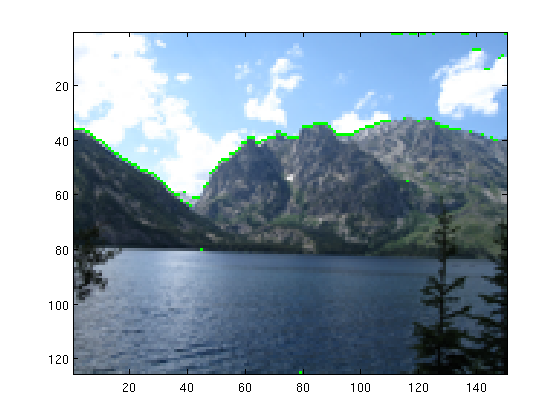
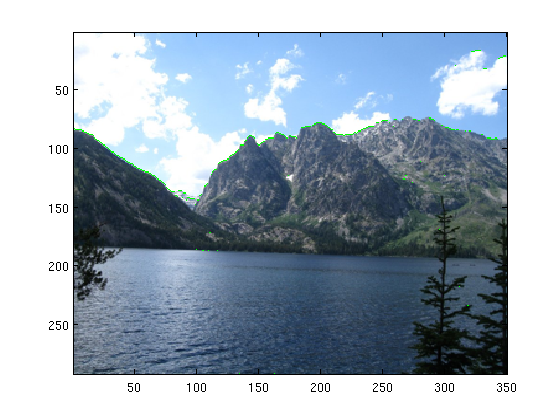
more pics for paper

diff --git a/csci5722_cv/project/paper/computer_vision_paper.tex b/csci5722_cv/project/paper/computer_vision_paper.tex
@@ -50,10 +50,11 @@ For every point in the DEM tile(s), I project this point into the image space.  
 
 There are a number of issues that arise with this approach.  The first one noticed is that all of the points in the DEM are just that: points.  The skyline will result in a jagged edge that is not particularly useful for this system.  I solved this approach by asserting that each point would represent a window halfway to it’s neighbors.  The azimuth for each point becomes a window calculated by taking the maximum and minimum angles calculated by adding ½ the distance to the neighboring points to the point I am attempting to render.  This approach creates a more realistic render that looks as if I am rendering a series of square tiles instead of a cloud of points; it also has the advantage that it makes closer items look larger and farther items look smaller.  I then fill in the values for this specific point between the minimum and maximum azimuths found. FIXME(Equation here)
     Once I have rendered the entire skyline, I need to calculate the actual skyline waveform.  The algorithm to do this is much simpler than in the photo, I simply find the highest defined pixels in the image and store these values and their angle in the rendered image. These will be use at a later stage.
+
 \subsection{Finding Skylines in Photos}
     There are numerous ways to find the edge where the ground meets the sky in a photograph.  I tried several convolution based methods, before I finally found one that suited my purposes:  a horizontal Sobel edge detector with some heuristic logic.  My initial testing involved using Matlab’s built in edge detectors \cite{mcandrew2004introduction} because it was trivial to try a large number of different filters quickly, but for my final version I wrote my own.  Initially, I tried a Canny edge detector, but it had too many false positives in the sky.  I next attempted to use several simple convolution \cite{Schafer:DSP} based filters of several different size, but most had too many false positives or simply did not find the skyline edge.  Finally, I settled on a 3x3 horizontal Sobel filter. \cite{behringer2002registration}  
 
-As a preprocessing step, I decimate the image into one much smaller so that I have enough RAM in my machine to store the full 360 model render.  For my system, I decimate my photographs to 150 pixels wide; I found this to be a good compromise as large enough to still see features, but small enough that I wouldn’t use too much RAM for my model render. After I decimated, I would find the results of a convolution with a horizontal Sobel filter. Once I had the results from the convolution, I would apply a secondary filter to only keep filter responses above a certain threshold.  After this filtration, I would search through each column of the image looking for the highest edge found; the relative elevation of these points in my image would be the skyline.  FIXME( put some images of annotated skylines and filter responses)
+As a preprocessing step, I decimate the image into one much smaller so that I have enough RAM in my machine to store the full 360 model render.  For my system, I decimate my photographs to 150 pixels wide; I found this to be a good compromise as large enough to still see features, but small enough that I wouldn’t use too much RAM for my model render. After I decimated, I would find the results of a convolution with a horizontal Sobel filter. Once I had the results from the convolution, I would apply a secondary filter to only keep filter responses above a certain threshold.\ref{fig:sobel}  After this filtration, I would search through each column of the image looking for the highest edge found; the relative elevation of these points in my image would be the skyline. \textbf{figs:annot} FIXME( put some images of annotated skylines and filter responses)
 \begin{figure*}
 	\centering
 	  \subfloat[Original Image with Annotated Skyline]{
@@ -64,13 +65,29 @@ As a preprocessing step, I decimate the image into one much smaller so that I ha
 		\includegraphics[width=0.5\textwidth]{picSobel.png}}                
 	\caption{An example Sobel filter response}
 \end{figure*}
-    There are a number of assumptions in my code.  First, I make the assumption that the camera is upright, and the photograph was not taken at a strange angle.  I also make the assumption that there are no occlusions in the image, because they will appear as part of the skyline, and eventually throw off the entire eventual match.  This assumption is rather problematic, as it is rare to find a photograph with nothing nearby obscuring the full skyline, therefore cropping of images as a preprocessing step may be required.  Another issue with my algorithm is that cumulonimbus and other fluffy white clouds create false positives for my algorithm.   Another problematic situation is a wide open plane with mountains in the far distance; my algorithm will miss the light blue mountains and find the edge between the plane and the mountains.  
+\begin{figure*}
+	\label{figs:annot}
+	\centering
+	\subfloat{\label{fig:night}\includegraphics[width=0.3\textwidth]{nightAnnotated.png}}
+	\subfloat{\label{fig:estes}\includegraphics[width=0.3\textwidth]{estesParkAnnotated.png}}
+	\subfloat{\label{fig:organPipes}\includegraphics[width=0.3\textwidth]{organPipes2Annotated.png}}
+	\caption{Several examples of good skyline edge finding}
+\end{figure*}
+
+    There are a number of assumptions in my code.  First, I make the assumption that the camera is upright, and the photograph was not taken at a strange angle.  I also make the assumption that there are no occlusions in the image, because they will appear as part of the skyline, and eventually throw off the entire eventual match.  This assumption is rather problematic, as it is rare to find a photograph with nothing nearby obscuring the full skyline, therefore cropping of images as a preprocessing step may be required. Figure \ref{fig:tetFail} shows an example of both occlusions and clouds. Another issue with my algorithm is that cumulonimbus and other fluffy white clouds create false positives for my algorithm.   Another problematic situation is a wide open plane with mountains in the far distance; my algorithm will miss the light blue mountains and find the edge between the plane and the mountains (see Figure \ref{fig:whiteSandsFail}.)  
 \begin{figure}
 	\centering
 	\includegraphics[width=0.5\textwidth]{tetonsCloudErrorSmallSkyline.png}
 	\caption{An example of when my algorithm fails due to both clouds and occlusions.}
+	\label{fig:tetFail}
 \end{figure}
-FIXME( put whitesands pic here)
+\begin{figure}
+\centering
+	\includegraphics[width=0.5\textwidth]{whiteSandsAnnotated.png}
+	\caption{An example of when my algorithm fails due a weak response of the actual skyline.}
+	\label{fig:whiteSandsFail}
+\end{figure}
+
 \subsection{Matching the Photograph Skyline with the Model Skyline}
     Once the two skylines have been calculated, the subwindow that the photograph viewport represents must be matched with the corresponding view in the model skyline.  The literature suggests using local maximums and minimums (small peaks and valleys in the skyline) as features to match. My approach was to treat the entire skyline  waveform from the photo as a feature vector with a number of missing data points. At this point I have some waveform that goes through the photograph at some elevation in the field of view.  I need to normalized this waveform’s absolute angles to some relative angle.  I choose the median angle of all the skyline points that are actually defined, and then I subtract this median angle from the absolute angle in the skyline to create a new skyline with a median of zero.  I would then iterate over the entire model skyline looking at every possible window in a 360 view around the model skyline.  Each hypothesis window is normalized in the same way that I normalized the photo skyline, thus I am comparing two similar feature vectors.  My algorithm then looks for the closest match using a modified Euclidean distance, but ignoring the pixels in the feature vectors where they are undefined in the photograph skyline.  Once I’ve found the best match in the model skyline, I then need map the pixel coordinates back to the actual angles of the field of view.
 \section{Results}
